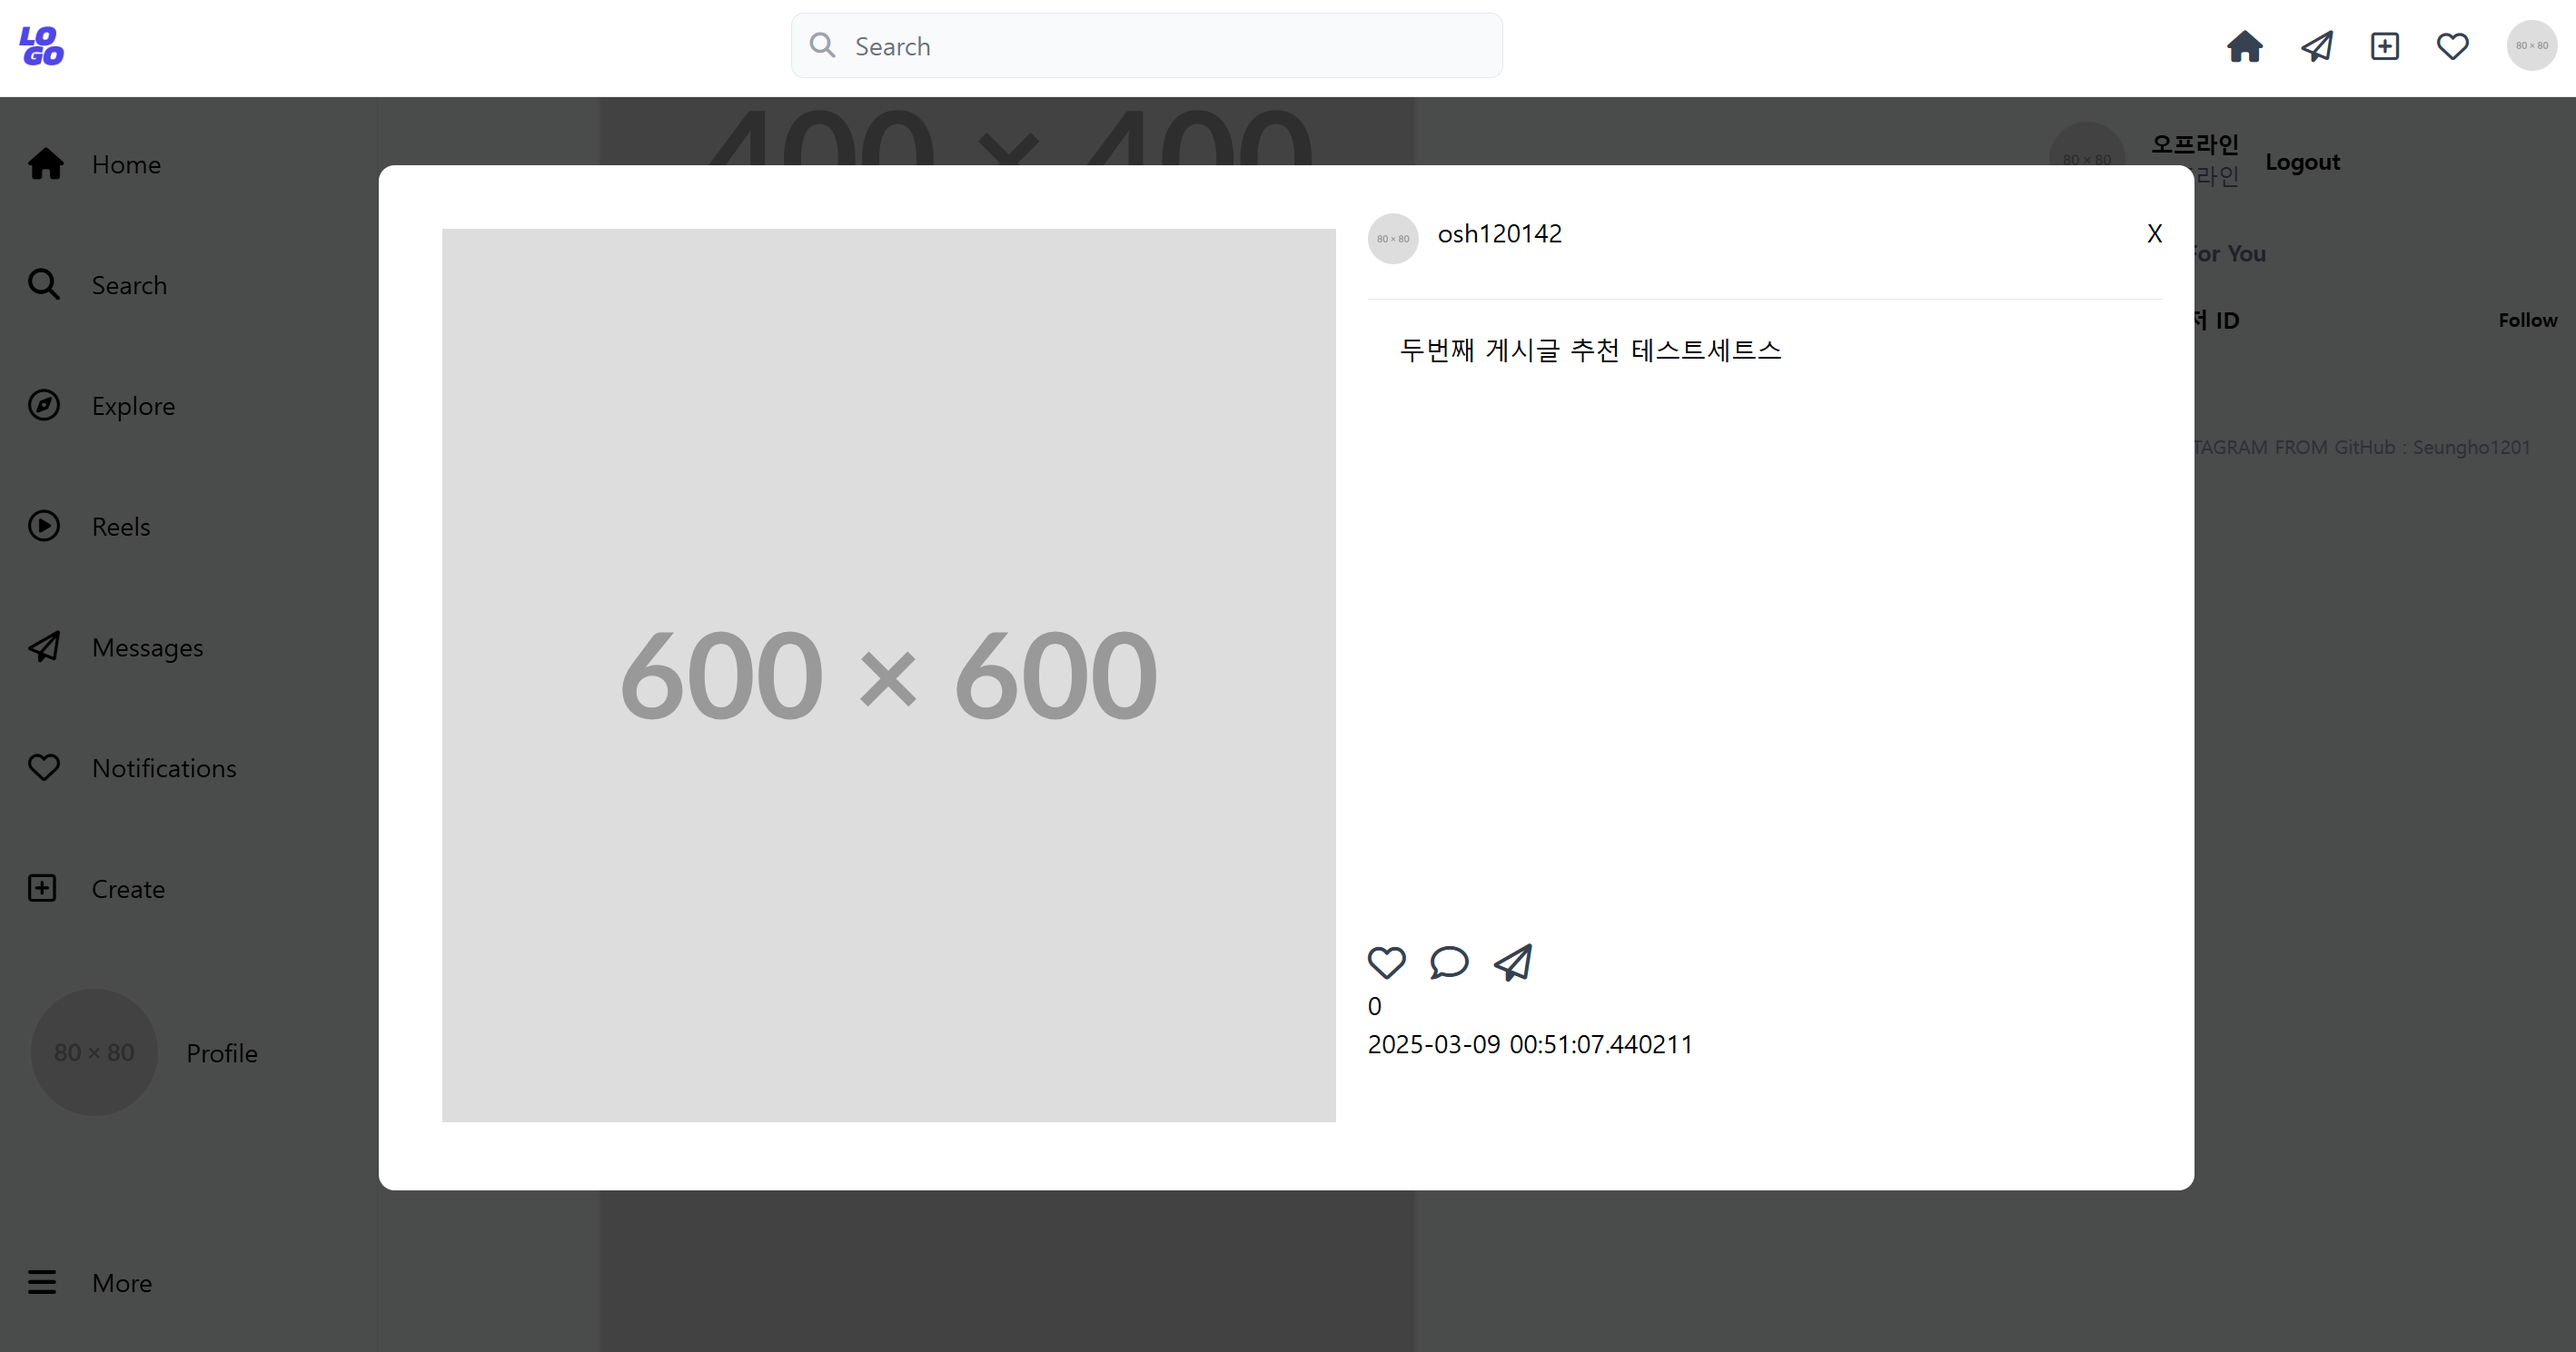
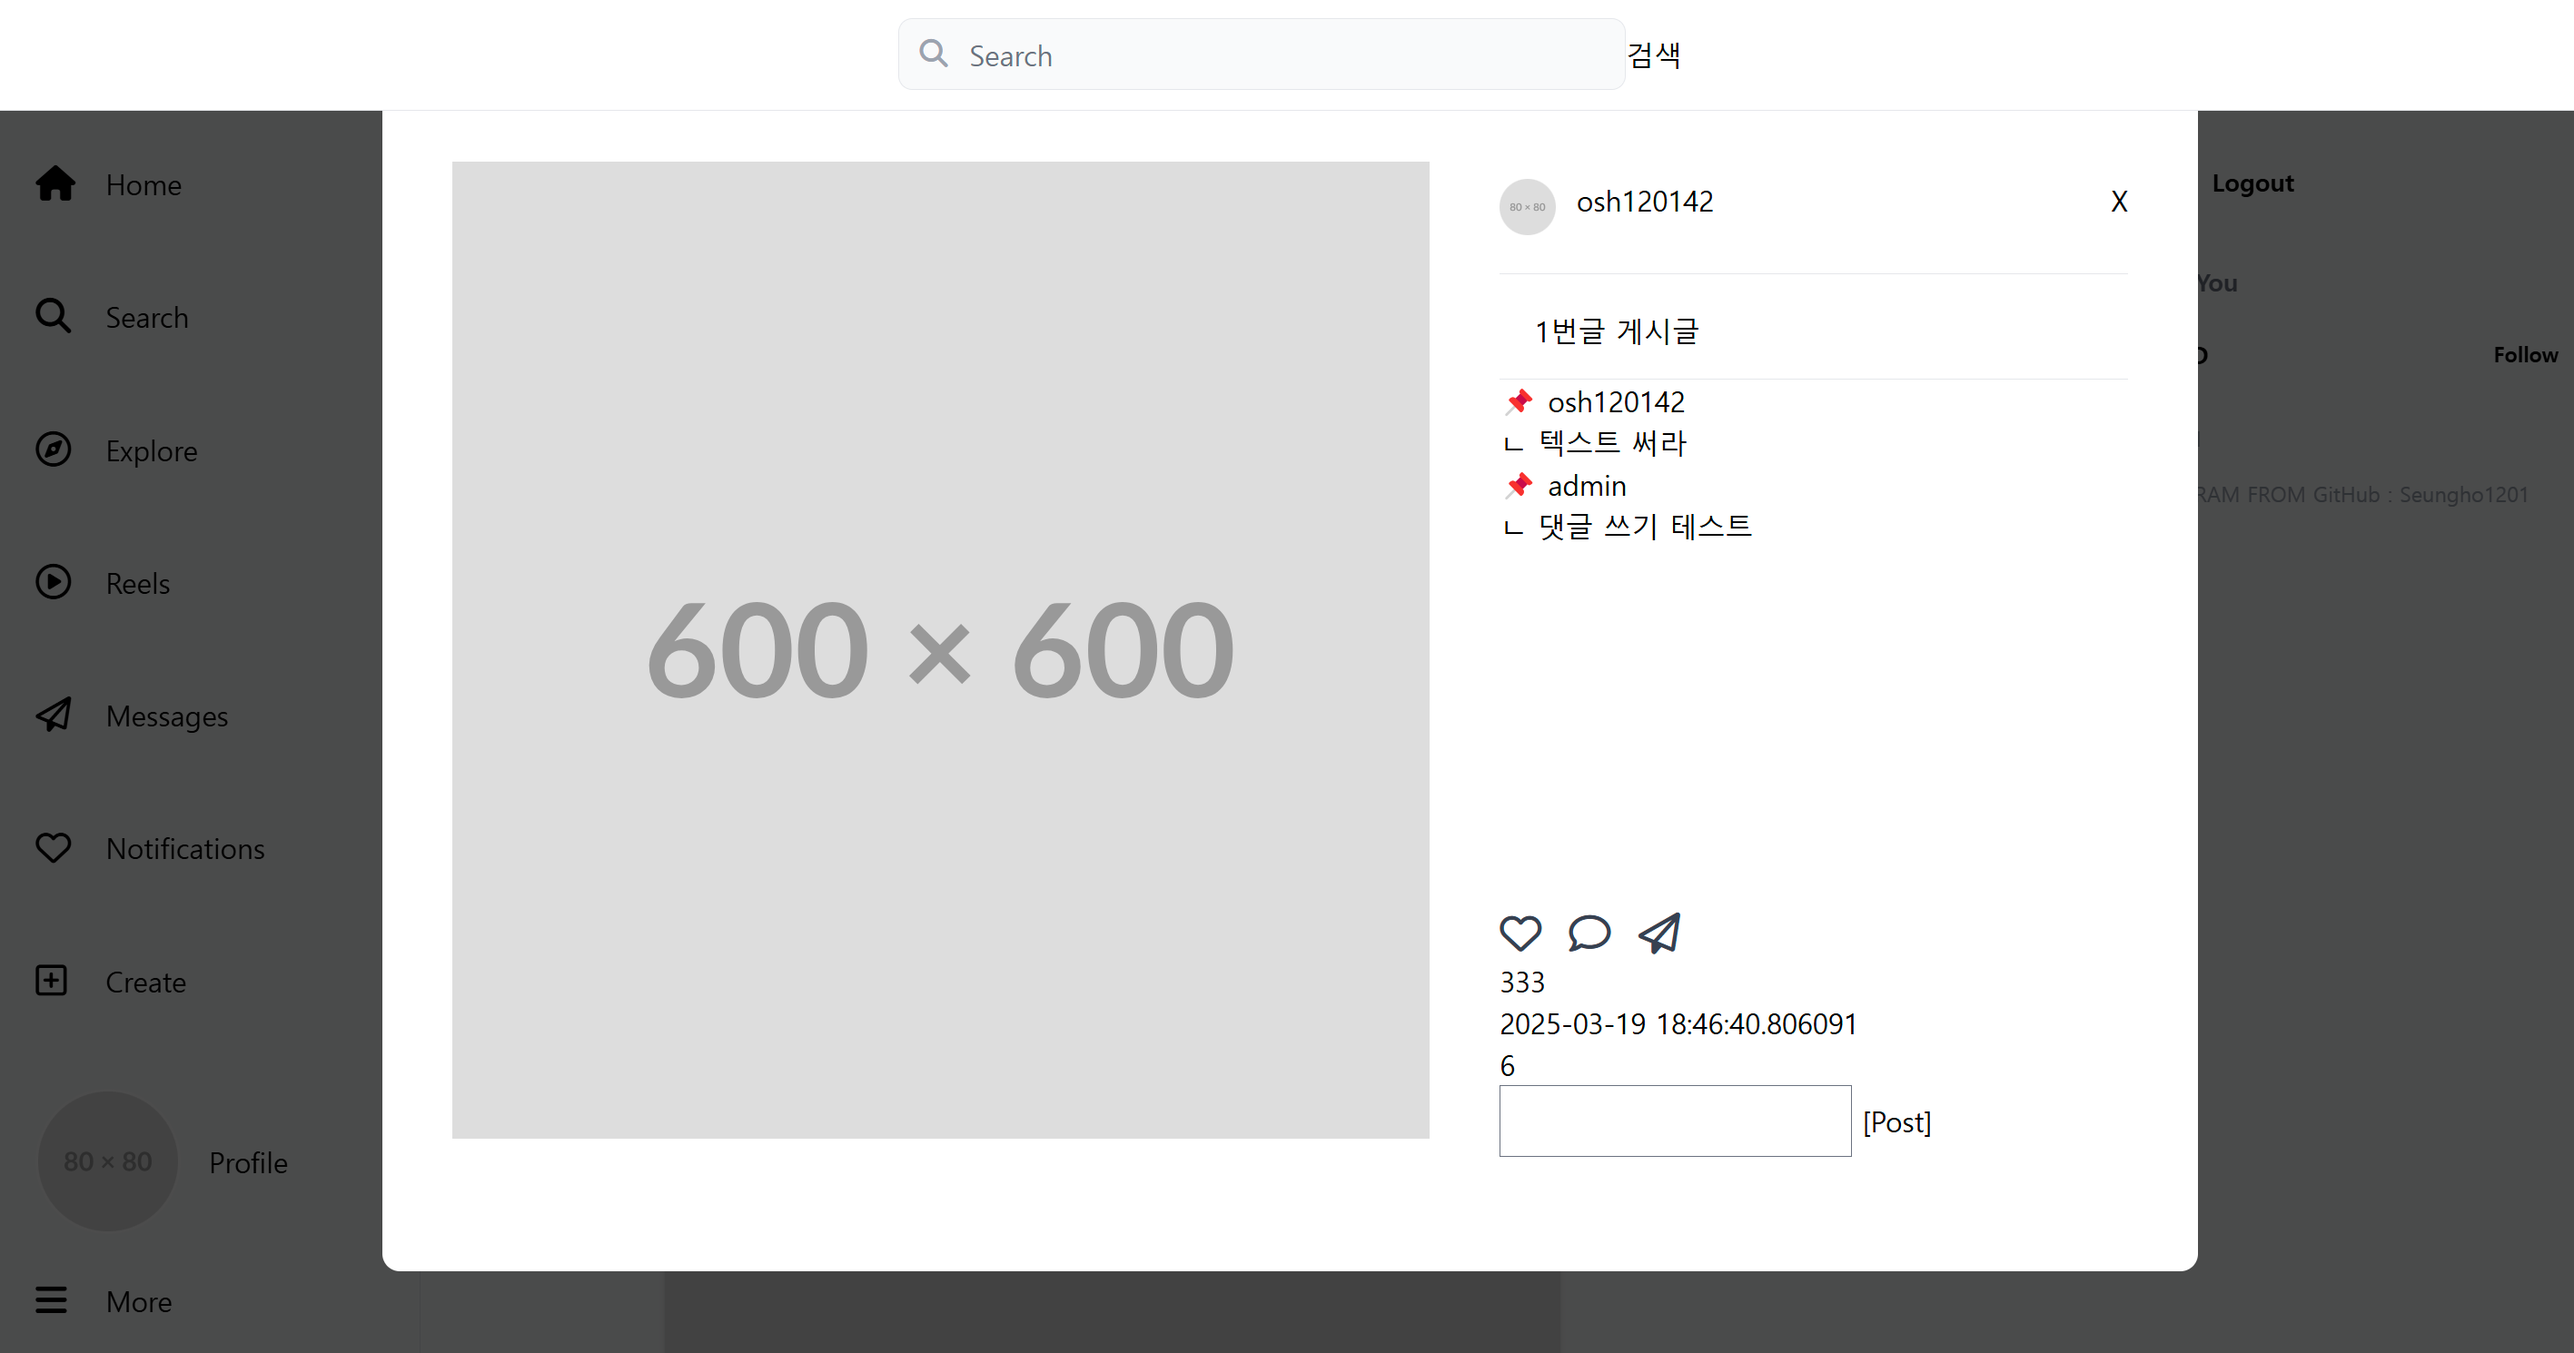
댓글 구현 완료

diff --git a/clone/src/main/resources/templates/test.html b/clone/src/main/resources/templates/test.html
@@ -370,31 +370,40 @@
     </div>
 </div>
 
-<!-- 게시글 댓글 모달 -->
+<!-- 게시글 상세페이지 댓글 모달 -->
 <div class="postModal" id="postModal">
     <div class="postModal-content" style="text-align: center; display: flex">
 
-        <div style="padding: 20px">
+        <div style="padding: 20px; width: 60%" >
             <img src="https://placehold.co/600"/>
             <br>
         </div>
 
-        <div>
+        <div style="padding: 20px; width: 40%" >
+            <!-- 상단 프로필이미지 + 유저 아이디-->
             <div onclick="closePostModal()" style="height: 40px; padding-top: 10px; display: flex">
+                <!-- 프로필 이미지 -->
                 <img src="https://placehold.co/80" alt="Suggestion" class="h-8 w-8 rounded-full mr-3"/>
-                <p id="postUserId"></p>   <!-- 작성자 -->
+
+                <!-- 작성자 -->
+                <p id="postUserId"></p>
+
+                <!-- 닫기 버튼 -->
                 <h3 style="margin-left: auto">X</h3>
             </div>
 
             <br>
             <hr>
 
-            <div style="padding: 20px; width: 450px; height:470px; text-align: left">
+            <!--게시글 내용-->
+            <div style="padding: 20px; height:10%; text-align: left">
                 <p id="postContent"></p>  <!-- 내용 -->
-
-
-                <div id="postImg"></div> <!-- 이미지 -->
             </div>
+
+            <hr>
+            <!--댓글 -->
+
+            <div id="commentContainer" style="text-align: left; height: 300px"></div>  <!-- 여기에 댓글을 추가 -->
 
             <div style="margin-bottom: 0px">
                 <div style="text-align: left">
@@ -404,8 +413,7 @@
                     </button>
 
                     <!--Comment-->
-                    <button class="text-2xl text-gray-700 hover:text-gray-900 testAjax" style="margin-right: 10px"
-                            >
+                    <button class="text-2xl text-gray-700 hover:text-gray-900 testAjax" style="margin-right: 10px">
                         <i class="far fa-comment"></i>
                     </button>
 
@@ -416,16 +424,47 @@
 
                     <p id="postRecommend"></p>  <!-- 추천 수 -->
                     <p id="postDate"></p>    <!-- 날짜 -->
+
+
+                    <p id="postId">  </p>
+                    <input type="text" id="commentContent">
+
+                    <a href="#" th:onclick="commentFunc()">[Post]</a>
+
+                        <script>
+                            function commentFunc(){
+                                // postId 값을 가져옴
+                                let postId = document.getElementById("postId").textContent.trim();
+                                let commentContent = document.getElementById("commentContent").value.trim();
+                                console.log(postId);
+                                console.log(commentContent);
+
+                                fetch(`/comment`, {
+                                    method: 'POST',  // POST 방식으로 요청 전송
+                                    headers: {
+                                        'Content-Type': 'application/json'
+                                    },
+                                    body: JSON.stringify({ postId: postId, commentContent: commentContent }) // JSON 데이터로 전송
+                                })
+                                    .then(response => {
+                                        if (!response.ok) {
+                                            throw new Error("서버 응답 실패");
+                                        }
+                                        return response.text();  // 문자열로 변환
+                                        //return response.json();  // JSON 변환
+                                    })
+                                    .then(data => {
+                                        console.log(data);
+                                    })
+                                    .catch(error => {
+                                        console.error("에러 발생:", error);
+                                    });
+                            }
+                        </script>
                 </div>
-
             </div>
-
         </div>
-
-
     </div>
-
-
 </div>
 
 
@@ -458,6 +497,7 @@
     }
 
     function setDetailData(id){
+        // 상세 페이지
         fetch(`/postDetail/${id}`)
             .then(response => {
                 if (!response.ok) {
@@ -473,7 +513,41 @@
                 document.getElementById('postUserId').innerText = `${data.postUserId}`;
                 document.getElementById('postRecommend').innerText = `${data.postRecommend}`;
                 document.getElementById('postDate').innerText = `${data.postDate || "정보 없음"}`;
+                document.getElementById('postId').innerText = `${data.postId || "정보 없음"}`;
 
+            })
+            .catch(error => {
+                console.error("에러 발생:", error);
+            });
+
+        // 댓글 가져오기
+        fetch(`/getcomment/${id}`)
+            .then(response => {
+                if (!response.ok) {
+                    throw new Error("서버 응답 실패");
+                }
+                return response.json();  // JSON 변환
+            })
+            .then(data => {
+             console.log(data);
+
+                let commentContainer = document.getElementById("commentContainer");
+                commentContainer.innerHTML = ""; // 기존 댓글 삭제 (중복 방지)
+
+
+                data.forEach(comment => {
+
+                    let commentElementUserId = document.createElement("h3");
+                    commentElementUserId.textContent = `📌 ${comment.userId}`;
+
+                    let commentElement = document.createElement("p");
+
+                    commentElement.textContent = `ㄴ ${comment.commentContent}`;
+
+                    commentContainer.appendChild(commentElementUserId);
+                    commentContainer.appendChild(commentElement);
+
+                });
             })
             .catch(error => {
                 console.error("에러 발생:", error);

diff --git a/clone/src/main/java/com/example/clone/Comment/CommentController.java b/clone/src/main/java/com/example/clone/Comment/CommentController.java
@@ -1,0 +1,64 @@
+package com.example.clone.Comment;
+
+import com.example.clone.Member.MyUserDetailsService;
+import lombok.RequiredArgsConstructor;
+import org.springframework.http.ResponseEntity;
+import org.springframework.security.core.Authentication;
+import org.springframework.stereotype.Controller;
+import org.springframework.web.bind.annotation.GetMapping;
+import org.springframework.web.bind.annotation.PathVariable;
+import org.springframework.web.bind.annotation.PostMapping;
+import org.springframework.web.bind.annotation.RequestBody;
+
+import java.util.List;
+import java.util.Map;
+
+@Controller
+@RequiredArgsConstructor
+public class CommentController {
+
+    private final CommentRepository commentRepository;
+
+    // 상세창에서 댓글 조회
+    @GetMapping("/getcomment/{id}")
+    public ResponseEntity<List<Comment>> getComment(@PathVariable Long id) {
+
+        List<Comment> comments = commentRepository.findByPostId(id);
+
+        System.out.println(comments);
+
+
+        return ResponseEntity.ok(comments);
+    }
+
+    // 댓글 저장
+    @PostMapping ("/comment")
+    public ResponseEntity<String> comment(@RequestBody Map<String, String> requestData,
+                                          Authentication auth) {
+
+        if(auth == null) {
+            return ResponseEntity.ok("로그인해라");
+        }
+
+        // 유저 정보 GET
+        MyUserDetailsService.CustomUser customUser = (MyUserDetailsService.CustomUser) auth.getPrincipal();
+
+
+        // Body에서 데이터 가져오기
+        String postId = requestData.get("postId");
+        String commentContent = requestData.get("commentContent");
+
+
+        // Comment 객체 생성
+        Comment comment = new Comment();
+
+        comment.setPost_id(Long.valueOf(postId));
+        comment.setCommentContent(commentContent);
+        comment.setUserId(customUser.userId);
+
+        // DB 저장
+        commentRepository.save(comment);
+
+        return ResponseEntity.ok("댓글 추가 완료");
+    }
+}

diff --git a/clone/src/main/java/com/example/clone/Comment/Comment.java b/clone/src/main/java/com/example/clone/Comment/Comment.java
@@ -6,15 +6,21 @@ import jakarta.persistence.GenerationType;
 import jakarta.persistence.Id;
 import lombok.Getter;
 import lombok.Setter;
+import lombok.ToString;
+import org.hibernate.annotations.CreationTimestamp;
 
 @Entity
 @Getter
 @Setter
+@ToString
 public class Comment {
     @Id
     @GeneratedValue(strategy = GenerationType.IDENTITY)
-    public int id;
-    public int post_id;
+    public Long id;
+    public Long post_id;
     public String userId;
     public String commentContent;
+
+    @CreationTimestamp
+    private String commentDate;
 }

diff --git a/clone/src/main/java/com/example/clone/Comment/CommentRepository.java b/clone/src/main/java/com/example/clone/Comment/CommentRepository.java
@@ -1,0 +1,17 @@
+package com.example.clone.Comment;
+
+import org.springframework.data.jpa.repository.JpaRepository;
+import org.springframework.data.jpa.repository.Query;
+
+import java.util.List;
+
+public interface CommentRepository extends JpaRepository<Comment, Long> {
+
+    List<Comment> findAllById(Long id);
+
+    // 해당 게시글의 댓글 가져오는 쿼리
+    @Query(value="select * from comment where post_id = ?1;", nativeQuery = true)
+    List<Comment> findByPostId(Long id);
+
+
+}

diff --git a/README.md b/README.md
@@ -8,9 +8,8 @@
 # 🖼 구현 기능
 - 로그인 및 회원가입
 - 게시글 CRUD         
-- 게시글 좋아요(추천)  // 구현중
 - 게시글 검색
-- 댓글                // 구현중
+- 댓글               
 
 # 🖼 실행 화면
 - 메인 페이지 <br>
